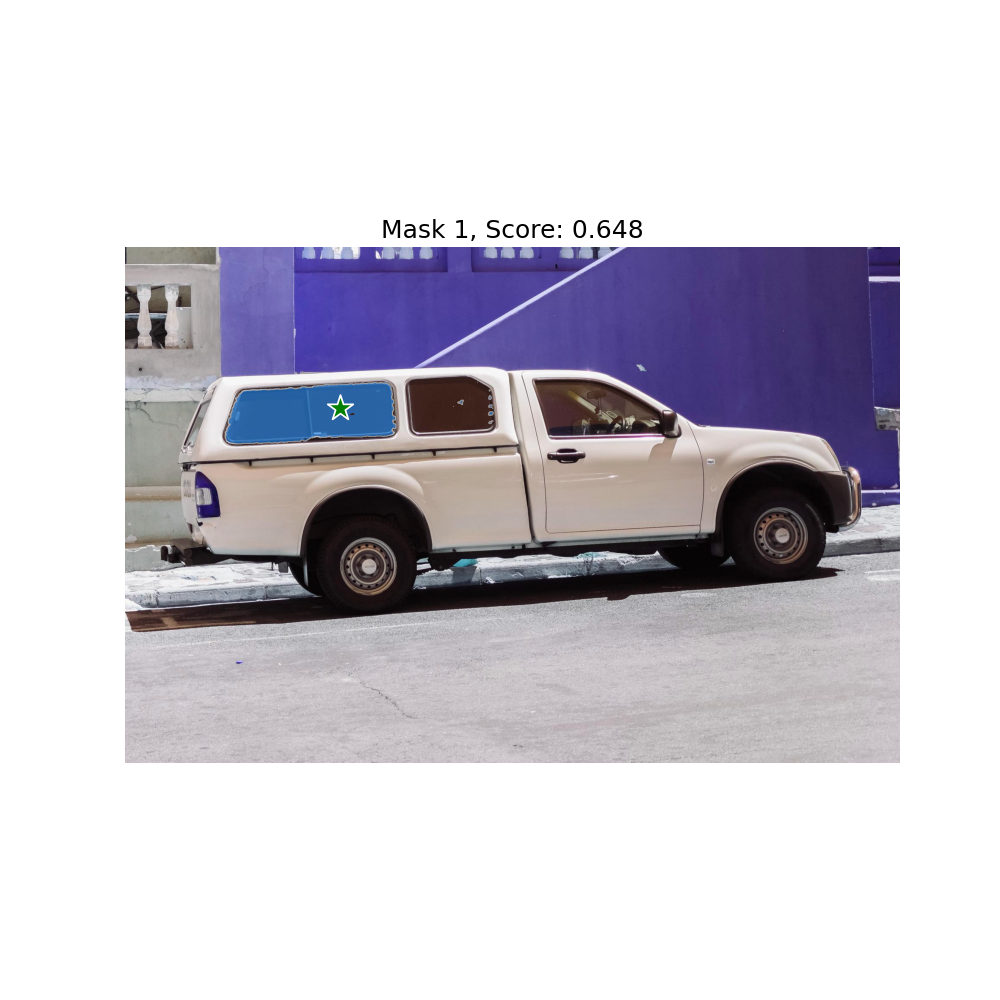
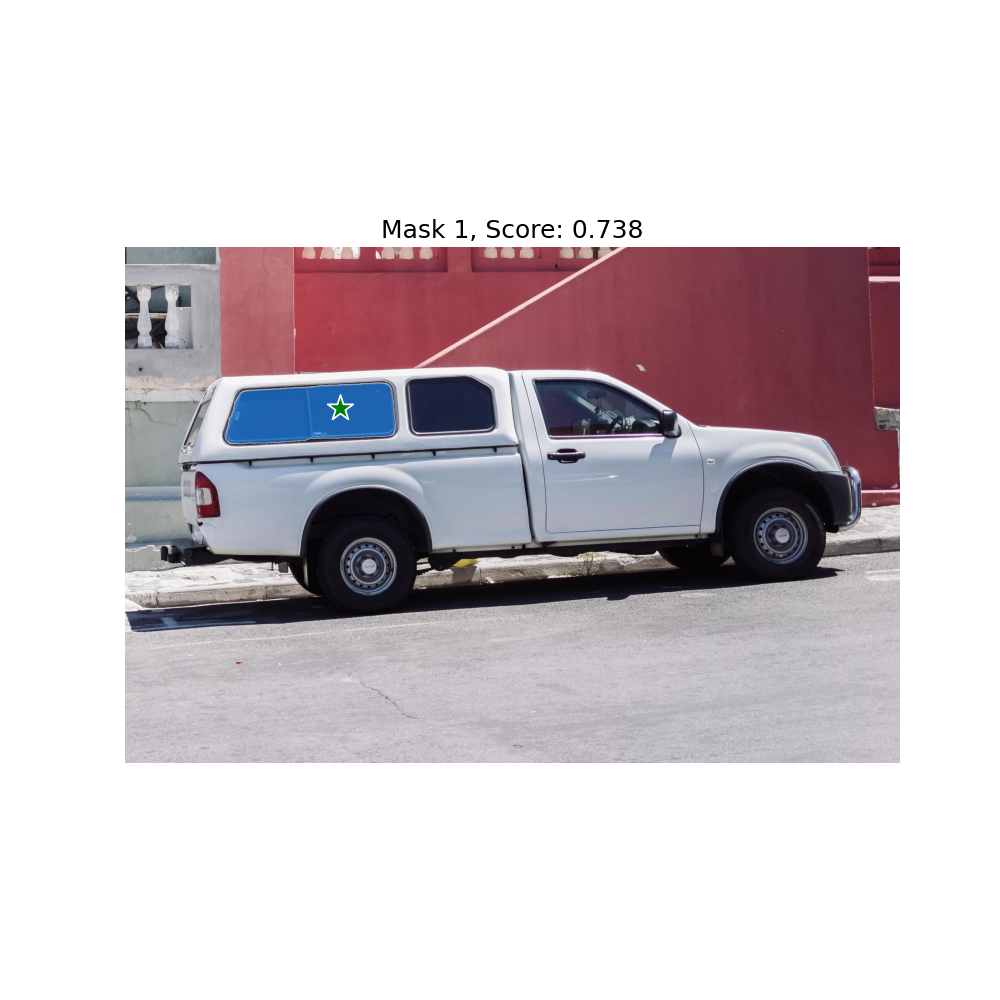
Fix color space, Fix output order

diff --git a/image_segmentation/segment-anything-2/sam2_image_predictor.py b/image_segmentation/segment-anything-2/sam2_image_predictor.py
@@ -206,6 +206,10 @@ class SAM2ImagePredictor:
             input_details[2]["index"], 
             [1, concat_points[0].shape[1], 2]
         )
+        prompt_encoder.resize_tensor_input(
+            input_details[3]["index"], 
+            [1, concat_points[1].shape[1]]
+        )
         prompt_encoder.allocate_tensors()
 
         prompt_encoder.set_tensor(input_details[2]["index"], concat_points[0])
@@ -215,8 +219,8 @@ class SAM2ImagePredictor:
         prompt_encoder.invoke()
 
         sparse_embeddings = prompt_encoder.get_tensor(output_details[1]["index"])
-        dense_embeddings = prompt_encoder.get_tensor(output_details[2]["index"])
-        dense_pe = prompt_encoder.get_tensor(output_details[0]["index"])
+        dense_embeddings = prompt_encoder.get_tensor(output_details[0]["index"])
+        dense_pe = prompt_encoder.get_tensor(output_details[2]["index"])
 
         # Predict masks
         batched_mode = (
@@ -229,8 +233,13 @@ class SAM2ImagePredictor:
 
         image_feature = features["image_embed"]
 
-        print("concat_points", concat_points[0].shape)
+        print("coords", concat_points[0].shape)
+        print("labels", concat_points[1].shape)
+        print("masks", mask_input_dummy.shape)
+
         print("sparse_embeddings", sparse_embeddings.shape)
+        print("dense_embeddings", dense_embeddings.shape)
+        print("dense_pe", dense_pe.shape)
 
         mask_decoder.allocate_tensors()
         input_details = mask_decoder.get_input_details()

diff --git a/image_segmentation/segment-anything-2/segment-anything-2.py b/image_segmentation/segment-anything-2/segment-anything-2.py
@@ -98,6 +98,7 @@ def show_box(box, ax):
     ax.add_patch(plt.Rectangle((x0, y0), w, h, edgecolor='green', facecolor=(0, 0, 0, 0), lw=2))    
 
 def show_masks(image, masks, scores, point_coords=None, box_coords=None, input_labels=None, borders=True, savepath = None):
+    image = cv2.cvtColor(image, cv2.COLOR_BGR2RGB)
     for i, (mask, score) in enumerate(zip(masks, scores)):
         plt.figure(figsize=(10, 10))
         plt.imshow(image)
